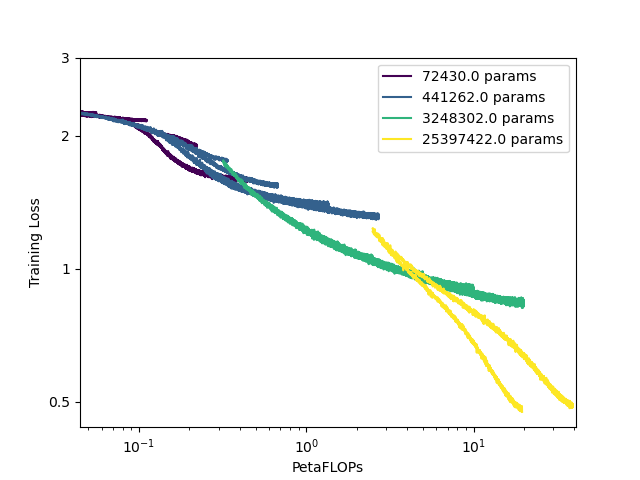
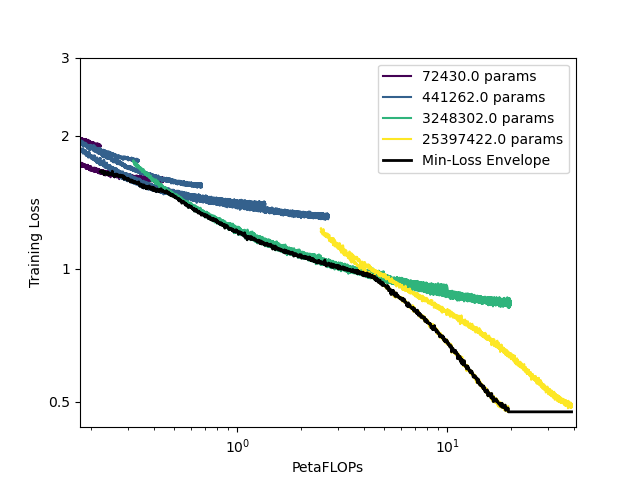
wip envolope

diff --git a/parse_tensorboard.py b/parse_tensorboard.py
@@ -4,6 +4,7 @@ from tensorboard.backend.event_processing.event_accumulator import EventAccumula
 import matplotlib.pyplot as plt
 import glob
 import math
+import numpy as np
 
 def parse_tensorboard_log(event_file_path, tag, step_multiplier=1):
     """
@@ -73,47 +74,127 @@ if __name__ == "__main__":
         with open("train_per_flops_smoothed.json") as f:
             params_to_data = json.load(f)
 
+    # Existing snippet to plot each curve using a colormap
     seen_params = set()
-    params_to_data = sorted(params_to_data, key=lambda x: x)
+    params_to_data = sorted(params_to_data, key=lambda x: (x[0], len(x[1])))
     min_params = params_to_data[0][0]
     max_params = params_to_data[-1][0]
     log_params_max = math.log(max_params)
     log_params_min = math.log(min_params)
-    min_x = None
     warmup = 1000
+    x_min = None
+    x_max = 0
+
+    batch_size = 128
+
+    # Plot all curves
     for params, data in params_to_data:
         print(f"Plotting {params} params")
         log_params = math.log(params)
         normalized_params = (log_params - log_params_min) / (log_params_max - log_params_min)
-        data[0] = data[0][warmup:]
-        data[1] = data[1][warmup:]
+        # Skip the initial `warmup` points
+
+        flops_arr = data[0][warmup:]
+        loss_arr = data[1][warmup:]
+
         if params not in seen_params:
-            plt.plot(data[0], data[1], label=f"{params} params", c=cmap(normalized_params))
+            plt.plot(flops_arr, loss_arr, label=f"{params} params", c=cmap(normalized_params))
         else:
-            plt.plot(data[0], data[1], c=cmap(normalized_params))
+            plt.plot(flops_arr, loss_arr, c=cmap(normalized_params))
         seen_params.add(params)
-        if min_x is None:
-            min_x = data[0][-1]
-    plt.xlim(left=min_x*0.8)
+        if x_min is None:
+            x_min = flops_arr[-1]
+        x_max = max(flops_arr[-1], x_max)
+
+
+    # ------------------------------------------------------------------
+    # 1) Build a global list of all FLOPs (after warmup) to find min/max
+    # ------------------------------------------------------------------
+    # all_flops = []
+    # for _, data in params_to_data:
+    #     flops_arr = data[0][warmup:]
+    #     all_flops.extend(flops_arr)
+
+    # # global_min_flops = min(all_flops)
+    # global_max_flops = max(all_flops)
+
+    # ------------------------------------------------------------------
+    # 2) Create 1500 log-spaced FLOPs from global_min_flops to global_max_flops
+    # ------------------------------------------------------------------
+    num_points = 1500
+    flops_grid = np.logspace(
+        math.log10(x_min),
+        math.log10(x_max),
+        num=num_points
+    )
+
+    # ------------------------------------------------------------------
+    # 3) For each flop in flops_grid, interpolate each curve’s loss
+    #    and take the minimum
+    # ------------------------------------------------------------------
+    min_loss_envelope = []
+    best_params = []
+    best_tokens = []
+
+    for flop_val in flops_grid:
+        # Track the best (minimum) loss among all curves at this flop value
+        best_loss = float('inf')
+        best_param_count = None
+        best_token_count = None
+        for params, data in params_to_data:
+            flops_arr = data[0][warmup:]
+            loss_arr = data[1][warmup:]
+            # Interpolate training loss at flop_val
+            # np.interp returns the value from the piecewise linear interpolation
+            # If flop_val is outside the range, it uses the edge values by default.
+            y_val = np.interp(flop_val, flops_arr, loss_arr, left=float('inf'))
+            if y_val < best_loss:
+                best_loss = y_val
+                best_param_count = params
+                best_token_count = flop_val / (batch_size * 6 * params)
+        min_loss_envelope.append(best_loss)
+        best_params.append(best_param_count)
+        best_tokens.append(best_token_count)
+
+    # ------------------------------------------------------------------
+    # 4) Plot the envelope on top (in black or any color you prefer)
+    # ------------------------------------------------------------------
+    plt.plot(flops_grid, min_loss_envelope, label="Min-Loss Envelope", 
+            color="black", linewidth=2)
+
+    # ------------------------------------------------------------------
+    # 5) Finalize and Save
+    # ------------------------------------------------------------------
+    # Optionally shift left x-limit to see enough data
+    plt.xlim(left=flops_grid[0] * 0.8)
+
     plt.xlabel("PetaFLOPs")
     plt.ylabel("Training Loss")
     plt.xscale("log")
 
     # Set y-axis to log scale (base 2)
     plt.yscale('log', base=2)
+
     # Manually set y-ticks (positions) and labels
-    y_ticks = [.5, 1, 2, 3]
+    y_ticks = [0.5, 1, 2, 3]
     plt.yticks(y_ticks, [str(y) for y in y_ticks])  # Display values as labels
 
     plt.legend()
     plt.savefig("train_per_flops_smoothed.png")
 
-    # Configuration
-    # EVENT_FILE_PATH = "outputs/ts_d512_l8_h8_t1e6/logs/events.out.tfevents.1736701636.wb-tor-68CTQP2.1444507.0"
-    # TAG = "Loss/Train_per_flops_smoothed"
-    # OUTPUT_JSON_PATH = "train_per_flops_smoothed.json"
+    # now plot the minium parameter valeu
+    plt.close("all")
+    plt.scatter(flops_grid, best_params)
+    plt.xlabel("PetaFLOPs")
+    plt.ylabel("Parameters")
+    plt.yscale("log")
+    plt.xscale("log")
+    plt.savefig("params_per_flops.png")
 
-    # try:
-    #     parse_tensorboard_log(EVENT_FILE_PATH, TAG, OUTPUT_JSON_PATH)
-    # except Exception as e:
-    #     print(f"Error: {e}")
+    plt.close("all")
+    plt.scatter(flops_grid, best_tokens)
+    plt.xlabel("PetaFLOPs")
+    plt.ylabel("Tokens")
+    plt.yscale("log")
+    plt.xscale("log")
+    plt.savefig("tokens_per_flops.png")
